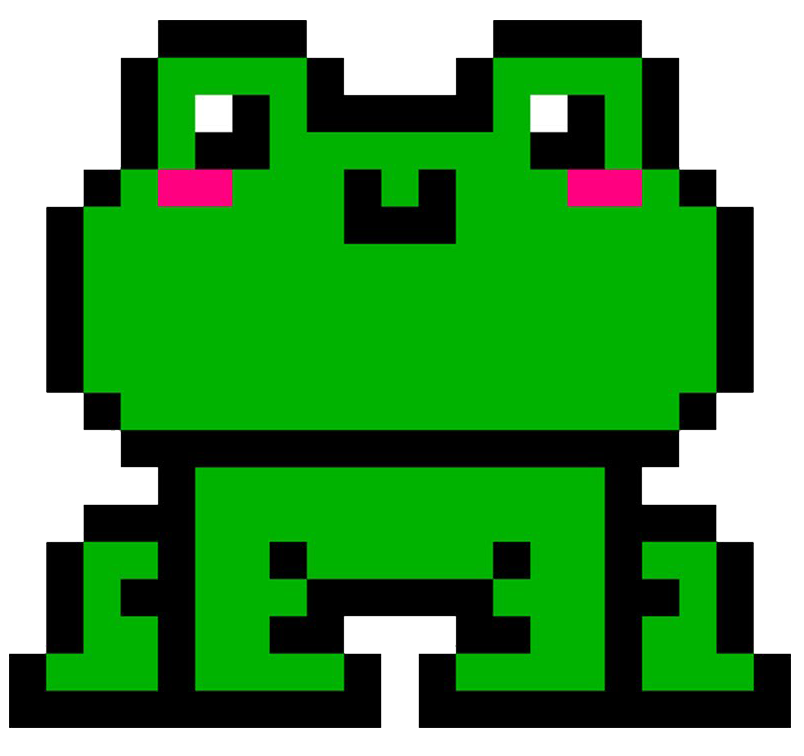
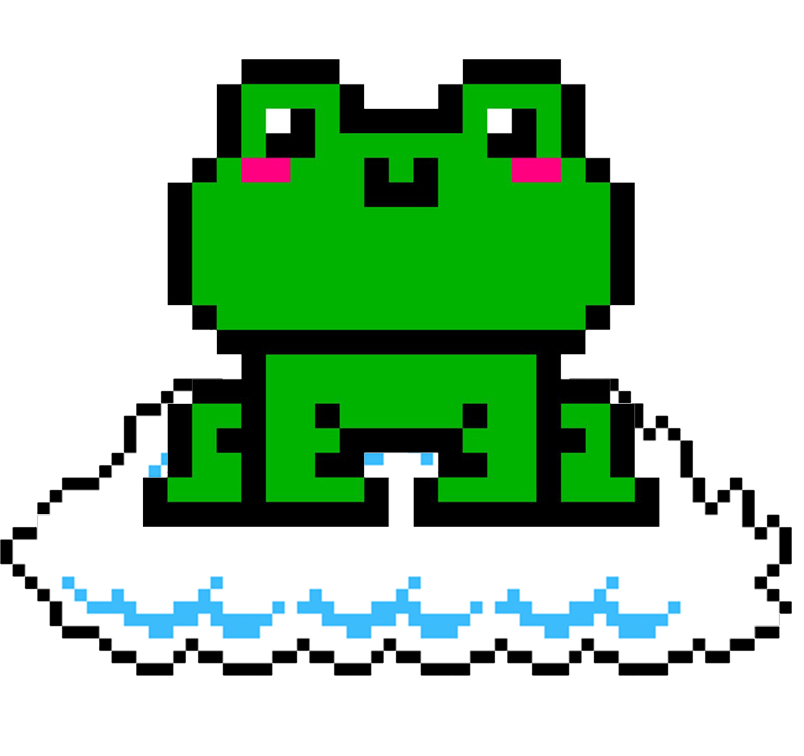
Анимация полёта жабки на облачке

diff --git a/style.css b/style.css
@@ -37,12 +37,19 @@ body{
 #frog {
     background: url(./images/frog.png);
     left: 37%;
-    top: 30%;
+    top: 35%;
     background-size: 100% 100%;
     position: fixed;
     width: 25%;
     height: 50%;
     z-index: 2;
+    animation: frog_floating 10s ease infinite;
+}
+
+@keyframes frog_floating {
+    from { top: 35%; }
+    50%  { top: 25%; }
+    to   { top: 35%; }
 }
 
 @keyframes cloud_floating {
